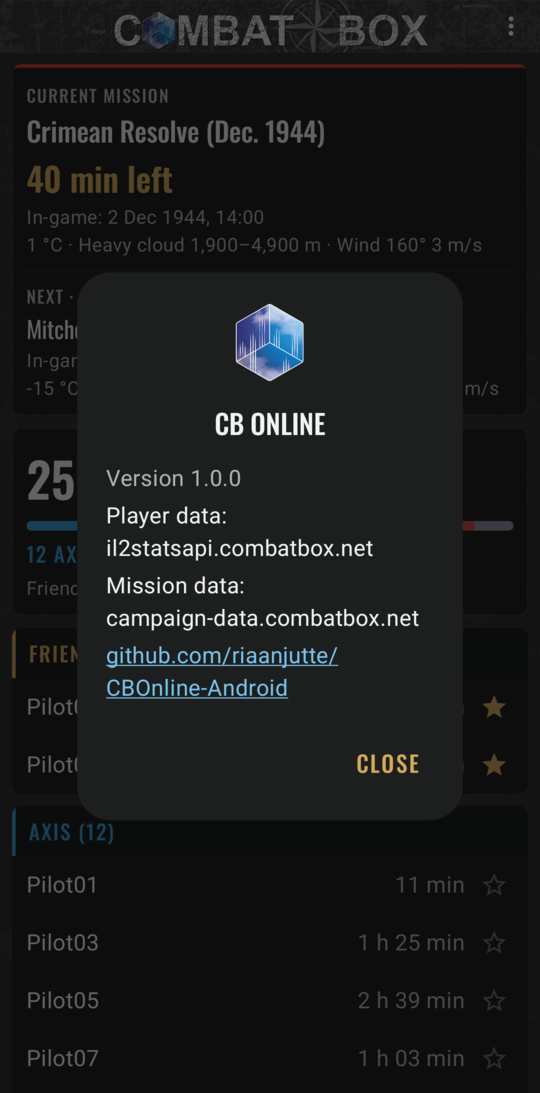
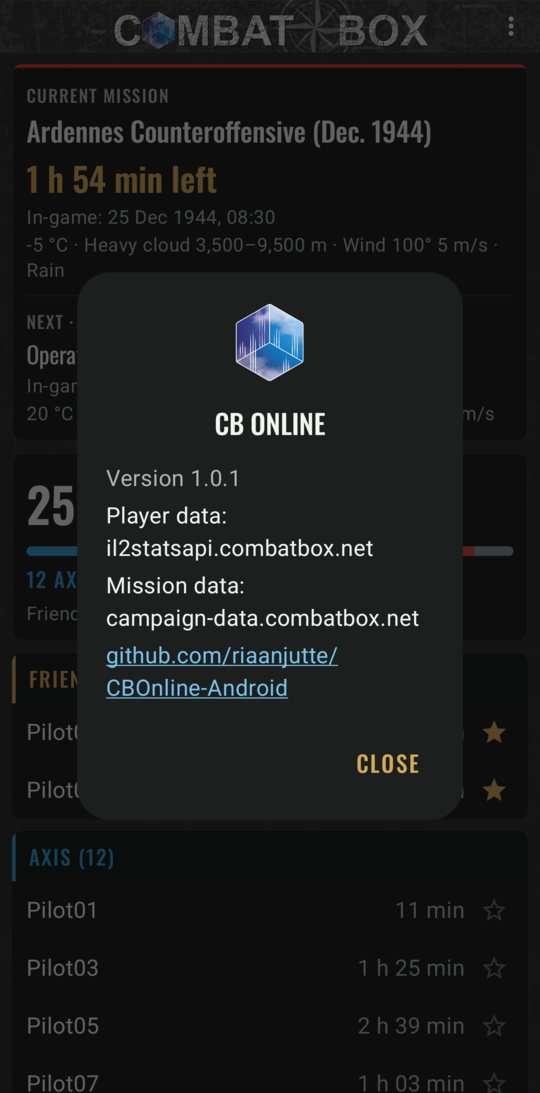
release: 1.0.1
Version 1.0.1: players without a side are labelled "Not spawned". Fresh README and website screenshots (Not spawned, version 1.0.1 in About) and link-preview card; alt text no longer names a specific time left.

diff --git a/site/index.html b/site/index.html
@@ -43,7 +43,7 @@
           <p class="release"><span id="release-line">Latest version on GitHub · Android 8.0 or newer</span> <span class="nowrap">· <a href="#install">Install help</a></span></p>
         </div>
         <img class="shot hero-shot" src="screenshots/main.png" width="540" height="1093"
-             alt="The app's main screen: the current mission with 41 minutes left, the next mission, 25 pilots online split by side, and the Axis list">
+             alt="The app's main screen: the current mission and its time left, the next mission, 25 pilots online split by side, and the Axis list">
       </div>
     </div>
 
@@ -82,7 +82,7 @@
       <div class="shots">
         <figure>
           <img class="shot" src="screenshots/main.png" width="540" height="1093" loading="lazy"
-               alt="Main screen: the current mission with 41 minutes left, the next mission, 25 pilots online split by side, and the Axis list">
+               alt="Main screen: the current mission and its time left, the next mission, 25 pilots online split by side, and the Axis list">
           <figcaption>Mission and pilots</figcaption>
         </figure>
         <figure>

diff --git a/README.md b/README.md
@@ -7,7 +7,7 @@ See who's flying on [Combat Box](https://combatbox.net) (IL-2 Great Battles) bef
 **[Download the latest version](https://github.com/riaanjutte/CBOnline-Android/releases/latest)** · Android 8.0 or newer · free
 
 <p align="center">
-  <img src="site/screenshots/main.png" width="250" alt="Main screen: the current mission with 41 minutes left, the next mission, 25 pilots online split by side, and the Axis list">
+  <img src="site/screenshots/main.png" width="250" alt="Main screen: the current mission and its time left, the next mission, 25 pilots online split by side, and the Axis list">
   <img src="site/screenshots/lists.png" width="250" alt="Two starred friends pinned in a Friends section above the Axis list">
   <img src="site/screenshots/about.png" width="250" alt="The About dialog showing the version and where the data comes from">
 </p>
